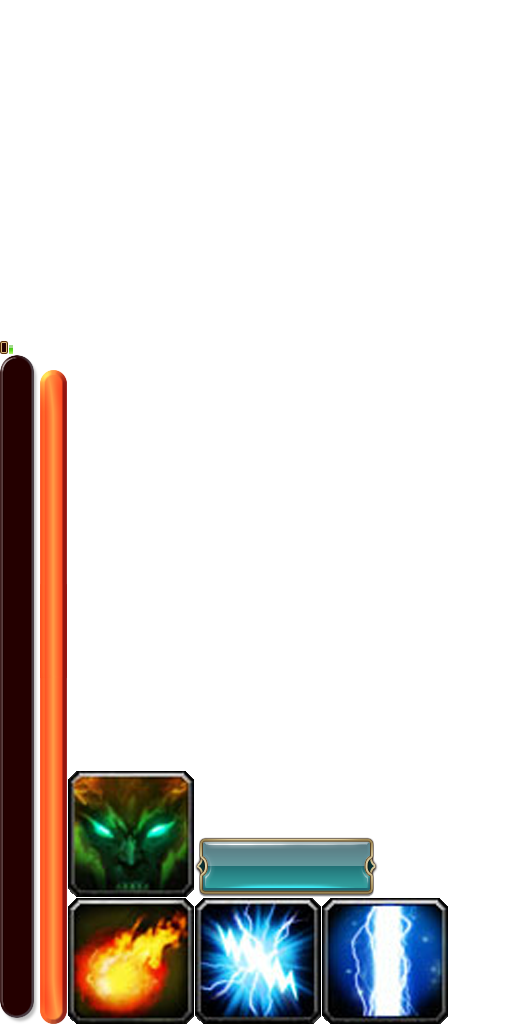
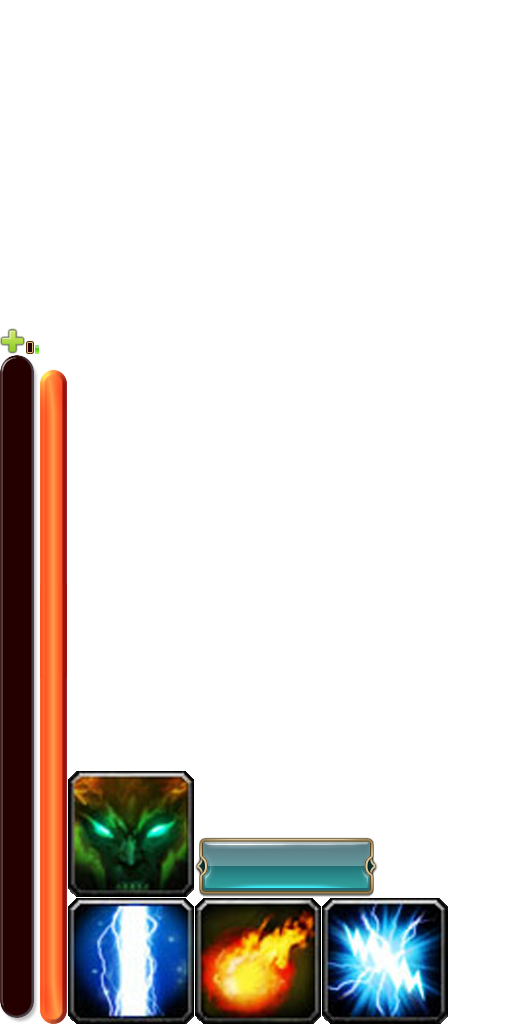
cc

Changed region(s): [[0.125, 0.875, 0.875, 1.0], [0.0, 0.3125, 0.0625, 0.3438]]

diff --git a/Wolf/Assets/Code/zx/UI/FollowCurse.cs b/Wolf/Assets/Code/zx/UI/FollowCurse.cs
@@ -1,0 +1,26 @@
+using UnityEngine;
+using System.Collections;
+
+public class FollowCurse : MonoBehaviour
+{
+	public bool open = false;
+	Vector3 away = new Vector3 (10000, 0, 0);
+	Camera uicamera;
+
+	void Start ()
+	{
+		uicamera = NGUITools.FindCameraForLayer (LayerMask.NameToLayer ("UI"));
+	}
+
+	// Update is called once per frame
+	void Update ()
+	{
+		if (open) {
+			transform.position = uicamera.ScreenToWorldPoint (Input.mousePosition);
+		} else {
+			if (!Vector3.Equals (transform.localPosition, away)) {
+				transform.position = away;
+			}
+		}
+	}
+}

diff --git a/Wolf/Assets/Code/zx/UI/MainUI.cs b/Wolf/Assets/Code/zx/UI/MainUI.cs
@@ -4,6 +4,7 @@ using System.Collections.Generic;
 
 public class MainUI : MonoBehaviour
 {
+	public FollowCurse followCurse;
 	private UISlider hpSlider;
 
 	void Start ()
@@ -53,8 +54,9 @@ public class MainUI : MonoBehaviour
 	{
 		SkillData sdata = SkillControl.Me.skillMap [stype];
 		if (sdata.canUse && sdata.triggertype == SkillTriggerType.Drag) {
+			followCurse.open = state;
 			if (state) {
-				
+
 			} else {
 				Messenger.Broadcast (GameEventType.UseSkill, stype);
 			}
